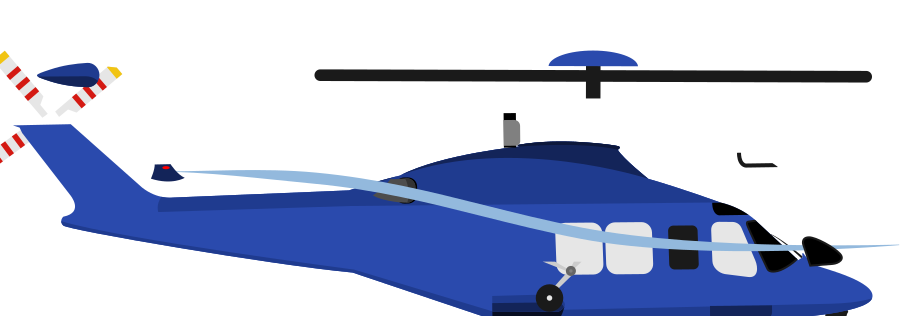
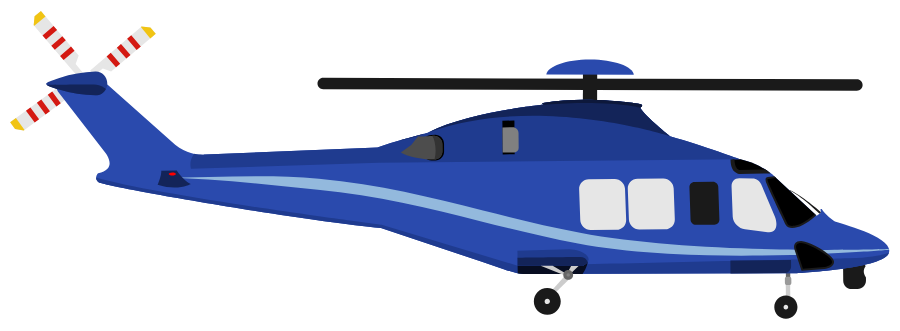
Build 95: police AW139 drawing repaired (displaced parts and cropped frame)
Claude-Session: https://claude.ai/code/session_01CXMY93tUivvJNkpfMAQTgP

diff --git a/website/luchtvaart/index.html b/website/luchtvaart/index.html
@@ -111,7 +111,7 @@
 <linearGradient id="k6bl" x1="0" y1="0" x2="0" y2="1"><stop offset="0" stop-color="#2f56b0"/><stop offset="1" stop-color="#15306f"/></linearGradient>
 <linearGradient id="k6gl" x1="0" y1="0" x2="1" y2="1"><stop offset="0" stop-color="#4d6072"/><stop offset=".5" stop-color="#121a22"/><stop offset="1" stop-color="#34475a"/></linearGradient>
 <clipPath id="k6c"><path id="k6romp" d="M40 158 Q170 128 310 124 L740 124 Q812 128 856 156 Q882 172 878 184 Q866 204 800 210 L310 216 Q190 214 110 192 Q60 176 40 158Z"/></clipPath></defs><path fill="url(#k6bl)" d="M66 152 L40 30 L104 30 L236 152Z"/><path fill="#f36f21" d="M52 86 L49 72 L140 72 L154 86Z"/><path fill="url(#k6wd)" stroke="#9aa3ac" stroke-width="2" d="M20 150 L150 140 L196 154 L150 164Z"/><path d="M40 158 Q170 128 310 124 L740 124 Q812 128 856 156 Q882 172 878 184 Q866 204 800 210 L310 216 Q190 214 110 192 Q60 176 40 158Z" fill="url(#k6w)" stroke="#9aa3ac" stroke-width="2"/><g clip-path="url(#k6c)"><path fill="url(#k6bl)" d="M0 150 Q300 196 900 178 L900 320 L0 320Z"/><path fill="#f36f21" d="M0 142 Q300 188 900 170 L900 178 Q300 196 0 150Z"/></g><path fill="url(#k6gl)" d="M800 136 Q832 140 852 154 L806 156 Q800 156 800 148Z"/><rect x="250" y="142" width="12" height="17" rx="5" fill="#2a3440"/><rect x="278" y="142" width="12" height="17" rx="5" fill="#2a3440"/><rect x="306" y="142" width="12" height="17" rx="5" fill="#2a3440"/><rect x="334" y="142" width="12" height="17" rx="5" fill="#2a3440"/><rect x="362" y="142" width="12" height="17" rx="5" fill="#2a3440"/><rect x="390" y="142" width="12" height="17" rx="5" fill="#2a3440"/><rect x="418" y="142" width="12" height="17" rx="5" fill="#2a3440"/><rect x="446" y="142" width="12" height="17" rx="5" fill="#2a3440"/><rect x="474" y="142" width="12" height="17" rx="5" fill="#2a3440"/><rect x="502" y="142" width="12" height="17" rx="5" fill="#2a3440"/><rect x="530" y="142" width="12" height="17" rx="5" fill="#2a3440"/><rect x="558" y="142" width="12" height="17" rx="5" fill="#2a3440"/><rect x="586" y="142" width="12" height="17" rx="5" fill="#2a3440"/><rect x="614" y="142" width="12" height="17" rx="5" fill="#2a3440"/><rect x="642" y="142" width="12" height="17" rx="5" fill="#2a3440"/><rect x="670" y="142" width="12" height="17" rx="5" fill="#2a3440"/><rect x="698" y="142" width="12" height="17" rx="5" fill="#2a3440"/><rect x="726" y="142" width="12" height="17" rx="5" fill="#2a3440"/><rect x="754" y="142" width="12" height="17" rx="5" fill="#2a3440"/><path fill="url(#k6wd)" stroke="#9aa3ac" stroke-width="2" d="M330 196 L590 188 L440 268 L380 268Z"/><path fill="url(#k6bl)" d="M380 268 L440 268 L420 232 L404 196Z" opacity="0"/><path fill="url(#k6bl)" d="M372 268 L360 214 L384 214 L408 268Z"/><path fill="url(#k6w)" stroke="#9aa3ac" stroke-width="2" d="M470 222 h110 q26 4 28 24 q-2 22 -28 24 h-96 q-18 -2 -18 -24z"/><ellipse cx="606" cy="246" rx="8" ry="22" fill="#1b1e22"/></svg></div></div></div>
-<h2>Hulpdiensten</h2><div class="rijen"><section class="rij"><span class="tek"><img src="/assets/img/heli_lifeliner.png" alt="" loading="lazy"></span><div><b>Lifeliner</b><small>Traumahelikopter · EC135</small><p>Brengt een arts en verpleegkundige van het Mobiel Medisch Team snel naar een ernstig ongeval. Er zijn vier Lifeliners, met als bases Amsterdam, Rotterdam, Volkel en Groningen.</p></div></section><section class="rij"><span class="tek"><img src="/assets/img/heli_politie.png" alt="" loading="lazy"></span><div><b>Zulu</b><small>Politiehelikopter · EC135</small><p>De helikopter van de Luchtvaartpolitie. Zoekt vermiste personen en verdachten, vaak met een warmtebeeldcamera, en ondersteunt bij achtervolgingen en grote incidenten.</p></div></section><section class="rij"><span class="tek"><img src="/assets/img/heli_politie_aw139.png" alt="" loading="lazy"></span><div><b>Zulu</b><small>Politiehelikopter · AW139</small><p>De grotere politiehelikopter. Kan meer mensen en materiaal meenemen, bijvoorbeeld een arrestatieteam.</p></div></section></div><h2>Defensie: helikopters</h2><div class="rijen"><section class="rij"><span class="tek"><svg aria-hidden="true" xmlns="http://www.w3.org/2000/svg" viewBox="0 0 900 320"><defs><linearGradient id="u4g" x1="0" y1="0" x2="0" y2="1"><stop offset="0" stop-color="#76884a"/><stop offset=".5" stop-color="#586a33"/><stop offset="1" stop-color="#3c4921"/></linearGradient>
+<h2>Hulpdiensten</h2><div class="rijen"><section class="rij"><span class="tek"><img src="/assets/img/heli_lifeliner.png" alt="" loading="lazy"></span><div><b>Lifeliner</b><small>Traumahelikopter · EC135</small><p>Brengt een arts en verpleegkundige van het Mobiel Medisch Team snel naar een ernstig ongeval. Er zijn vier Lifeliners, met als bases Amsterdam, Rotterdam, Volkel en Groningen.</p></div></section><section class="rij"><span class="tek"><img src="/assets/img/heli_politie.png" alt="" loading="lazy"></span><div><b>Zulu</b><small>Politiehelikopter · EC135</small><p>De helikopter van de Luchtvaartpolitie. Zoekt vermiste personen en verdachten, vaak met een warmtebeeldcamera, en ondersteunt bij achtervolgingen en grote incidenten.</p></div></section><section class="rij"><span class="tek"><img src="/assets/img/heli_politie_aw139.png?v=2" alt="" loading="lazy"></span><div><b>Zulu</b><small>Politiehelikopter · AW139</small><p>De grotere politiehelikopter. Kan meer mensen en materiaal meenemen, bijvoorbeeld een arrestatieteam.</p></div></section></div><h2>Defensie: helikopters</h2><div class="rijen"><section class="rij"><span class="tek"><svg aria-hidden="true" xmlns="http://www.w3.org/2000/svg" viewBox="0 0 900 320"><defs><linearGradient id="u4g" x1="0" y1="0" x2="0" y2="1"><stop offset="0" stop-color="#76884a"/><stop offset=".5" stop-color="#586a33"/><stop offset="1" stop-color="#3c4921"/></linearGradient>
 <linearGradient id="u4d" x1="0" y1="0" x2="0" y2="1"><stop offset="0" stop-color="#4f5e2c"/><stop offset="1" stop-color="#2f3a18"/></linearGradient>
 <linearGradient id="u4gr" x1="0" y1="0" x2="0" y2="1"><stop offset="0" stop-color="#aab2b9"/><stop offset=".5" stop-color="#7f8991"/><stop offset="1" stop-color="#565f67"/></linearGradient>
 <linearGradient id="u4gd" x1="0" y1="0" x2="0" y2="1"><stop offset="0" stop-color="#6c757d"/><stop offset="1" stop-color="#40474e"/></linearGradient>

diff --git a/website/assets/js/pager.js b/website/assets/js/pager.js
@@ -9,7 +9,7 @@ import {
   wRings, kazerneRoutes, routeFase, geschattePositie, verband, heliAnnotation, heliInfo, warnAnnotation, warnOverlays, kazerneAnnotation, kazernes,
   heliGenoemd, heliNaam, heliRelevant, heliVoor, heliImg, vliegtWest, fetchSpoor, fetchSpoorVol, inzetVoor, inzetVan, inzetTekst, fetchVerloop, fetchPost, fetchApp, fetchPand, pandTekst, inDeLucht, inzetEenheden, fetchVluchten, fetchHeliStatus, meldToestel, spoorOverlay, vluchtTekst, heliLaag, geschat, fetchLocaties, locatieAnnotation, locatieSoort, locatieIcon, voorspellingTekst, voorspellingOverlay, afspeelPunt,
   fetchVerkeer, verkeerOverlay, verkeerAnnotation, flitserAnnotation, verkeerHTML,
-  CODES, isOpgeheven, isKind, wShareUrl, mShareUrl, routeLinks, weergave, zetWeergave, kaartKleur, volgKaartKleur, isGrootIncident, radarLaag, meldingFeedback } from "./aalerts.js?v=70";
+  CODES, isOpgeheven, isKind, wShareUrl, mShareUrl, routeLinks, weergave, zetWeergave, kaartKleur, volgKaartKleur, isGrootIncident, radarLaag, meldingFeedback } from "./aalerts.js?v=71";
 
 const $ = (id) => document.getElementById(id);
 trackVisit();

diff --git a/website/index.html b/website/index.html
@@ -36,7 +36,7 @@
 <link rel="stylesheet" href="assets/css/landing.css?v=59">
 <script src="config.js?v=57"></script>
 <script src="assets/js/consent.js?v=59" defer></script>
-<script type="module" src="assets/js/landing.js?v=66"></script>
+<script type="module" src="assets/js/landing.js?v=67"></script>
 </head>
 <body class="landing">
 
@@ -384,7 +384,7 @@ tel(); setInterval(() => { if (!document.hidden) tel(); }, 30000);
       <svg class="heli-anim" viewBox="0 0 100 100" preserveAspectRatio="none">
         <!-- Zulu on the ground at Teuge (offline) -->
         <g transform="translate(78 30)" class="geland">
-          <image href="assets/img/heli_politie_aw139.png" x="-9" y="-3.2" width="18" height="6.3"/>
+          <image href="assets/img/heli_politie_aw139.png?v=2" x="-9" y="-3.2" width="18" height="6.3"/>
           <rect x="-7.5" y="3.8" width="15" height="3.6" rx="1.8" fill="rgba(20,20,26,.85)"/>
           <text x="0" y="6.35" text-anchor="middle" font-size="2.2" fill="#c8c8d0" font-family="Poppins, sans-serif">op de grond</text>
         </g>

diff --git a/website/assets/js/aalerts.js b/website/assets/js/aalerts.js
@@ -278,7 +278,7 @@ export function inzetEenheden(m, list) {
 export function heliImg(h) {
   if (h.icoon) return asset(`assets/img/lucht_${h.icoon}.png`);
   if (h.soort === "trauma") return asset("assets/img/heli_lifeliner.png");
-  return h.type === "A139" || ["zulu24", "zulu25", "zulu26"].includes(h.id) ? asset("assets/img/heli_politie_aw139.png") : asset("assets/img/heli_politie.png");
+  return h.type === "A139" || ["zulu24", "zulu25", "zulu26"].includes(h.id) ? asset("assets/img/heli_politie_aw139.png") + "?v=2" : asset("assets/img/heli_politie.png");
 }
 export const vliegtWest = (h) => h.koers != null && !h.op_grond && ((h.koers % 360) + 360) % 360 > 180;
 // "Kaart en helikopters" (same choices as the apps), kept in this browser.

diff --git a/website/assets/js/meldkamer.js b/website/assets/js/meldkamer.js
@@ -9,7 +9,7 @@ import {
   BRONNEN, fetchWaarschuwingen, fetchHelikopters, fetchLuchtvaart, wKop, wTijd, wKleur, wOpKleur, wIcon, wStart, isActief, isBeeindigd, warnAnnotation, warnOverlays,
   heliLaag, fetchSpoor, spoorOverlay, geschat, fetchLocaties, locatieAnnotation, voorspellingOverlay, voorspellingTekst, heliImg, heliInfo, vliegtWest, heliVoor, heliRelevant, kazernes, kazerneAnnotation, kazerneRoutes, werkgebiedLijnen, radarLaag,
   kaartKleur, volgKaartKleur, fetchVerkeer, verkeerOverlay, verkeerAnnotation, flitserAnnotation,
-} from "./aalerts.js?v=70";
+} from "./aalerts.js?v=71";
 
 const $ = (id) => document.getElementById(id);
 trackVisit();

diff --git a/website/assets/js/widget.js b/website/assets/js/widget.js
@@ -8,7 +8,7 @@ import { API, asset, esc, loadMapKit, mapsAllowed, markerAnnotation, fmtTime, pr
 import {
   fetchWaarschuwingen, fetchHelikopters, heliLaag, fetchLocaties, locatieAnnotation, radarLaag, CODES, mShareUrl,
   fetchVerkeer, verkeerOverlay, verkeerAnnotation, flitserAnnotation, verkeerIcon, verkeerFile, VERKEER_SOORT, verkeerRegels, verkeerTijdvak, verkeerKleur,
-} from "./aalerts.js?v=70";
+} from "./aalerts.js?v=71";
 
 // The area: Apeldoorn, the villages and hamlets, Teuge, with the A1 and A50 around it.
 const GEBIED = { noord: 52.36, zuid: 52.03, oost: 6.20, west: 5.70 };

diff --git a/website/widget/index.html b/website/widget/index.html
@@ -16,7 +16,7 @@
 // A-Alerts widget for other websites: /widget/?w=kaart,verkeer&thema=auto|licht|donker[&site=<host>]
 // Reports the site it is shown on (domain only); a blocked site gets a link to a-alerts.nl instead.
 import { API } from "/assets/js/core.js?v=61";
-import { maakWidgets } from "/assets/js/widget.js?v=15";
+import { maakWidgets } from "/assets/js/widget.js?v=16";
 const q = new URLSearchParams(location.search);
 const widgets = (q.get("w") || "kaart,verkeer,weer").split(",");
 const thema = ["licht", "donker"].includes(q.get("thema")) ? q.get("thema") : "auto";

diff --git a/website/meldkamer/index.html b/website/meldkamer/index.html
@@ -34,7 +34,7 @@
 <link rel="stylesheet" href="../assets/css/meldkamer.css?v=59">
 <script src="../config.js?v=57"></script>
 <script src="../assets/js/consent.js?v=59" defer></script>
-<script type="module" src="../assets/js/meldkamer.js?v=71"></script>
+<script type="module" src="../assets/js/meldkamer.js?v=72"></script>
 </head>
 <body class="mk" data-maps>
 <h1 class="sr-only">Meldkamer: live kaart van de gemeente Apeldoorn</h1>

diff --git a/website/pager/index.html b/website/pager/index.html
@@ -34,7 +34,7 @@
 <link rel="stylesheet" href="../assets/css/pager.css?v=68">
 <script src="../config.js?v=57"></script>
 <script src="../assets/js/consent.js?v=59" defer></script>
-<script type="module" src="../assets/js/pager.js?v=78"></script>
+<script type="module" src="../assets/js/pager.js?v=79"></script>
 </head>
 <body class="app" data-maps>
 <h1 class="sr-only">Live pager: alle meldingen in de gemeente Apeldoorn</h1>

diff --git a/website/assets/js/landing.js b/website/assets/js/landing.js
@@ -1,4 +1,4 @@
-import { fetchWaarschuwingen, fetchHelikopters, wKop, wTijd, wIcon, wStatus, BRONNEN } from "./aalerts.js?v=70";
+import { fetchWaarschuwingen, fetchHelikopters, wKop, wTijd, wIcon, wStatus, BRONNEN } from "./aalerts.js?v=71";
 import { trackVisit, fetchMeldingen, today, dienstOf, asset, date, fmtTime, esc, ago, reveal, countUp, demoMode, config, plaatsText } from "./core.js?v=61";
 
 reveal();

diff --git a/CHANGELOG.md b/CHANGELOG.md
@@ -1,5 +1,8 @@
 # Changelog
 
+## A-Alerts 2.0.1 (build 95)
+- **Tekening van de politiehelikopter AW139 (Zulu 24, 25, 26) hersteld.** In het bestand stond een deel van de onderdelen verschoven (hoofdrotor, achterwiel, lichtblauwe lijn, staartlicht, ruit op de neus) en het kader sneed de staartrotor, de buik en de wielen af. De tekening zelf is niet veranderd. App, Android en website (kaart, pager, meldkamer).
+
 ## A-Alerts 2.0.1 (build 94)
 - **Verloop: de nieuwste melding staat bovenaan** (app, Android en pager); de regel "Opgeschaald naar …" staat nog steeds bij de melding waarmee de inzet groter werd.
 - Ambulance zonder adres bij een verkeersongeval: het venster is 5 minuten (was 15).
